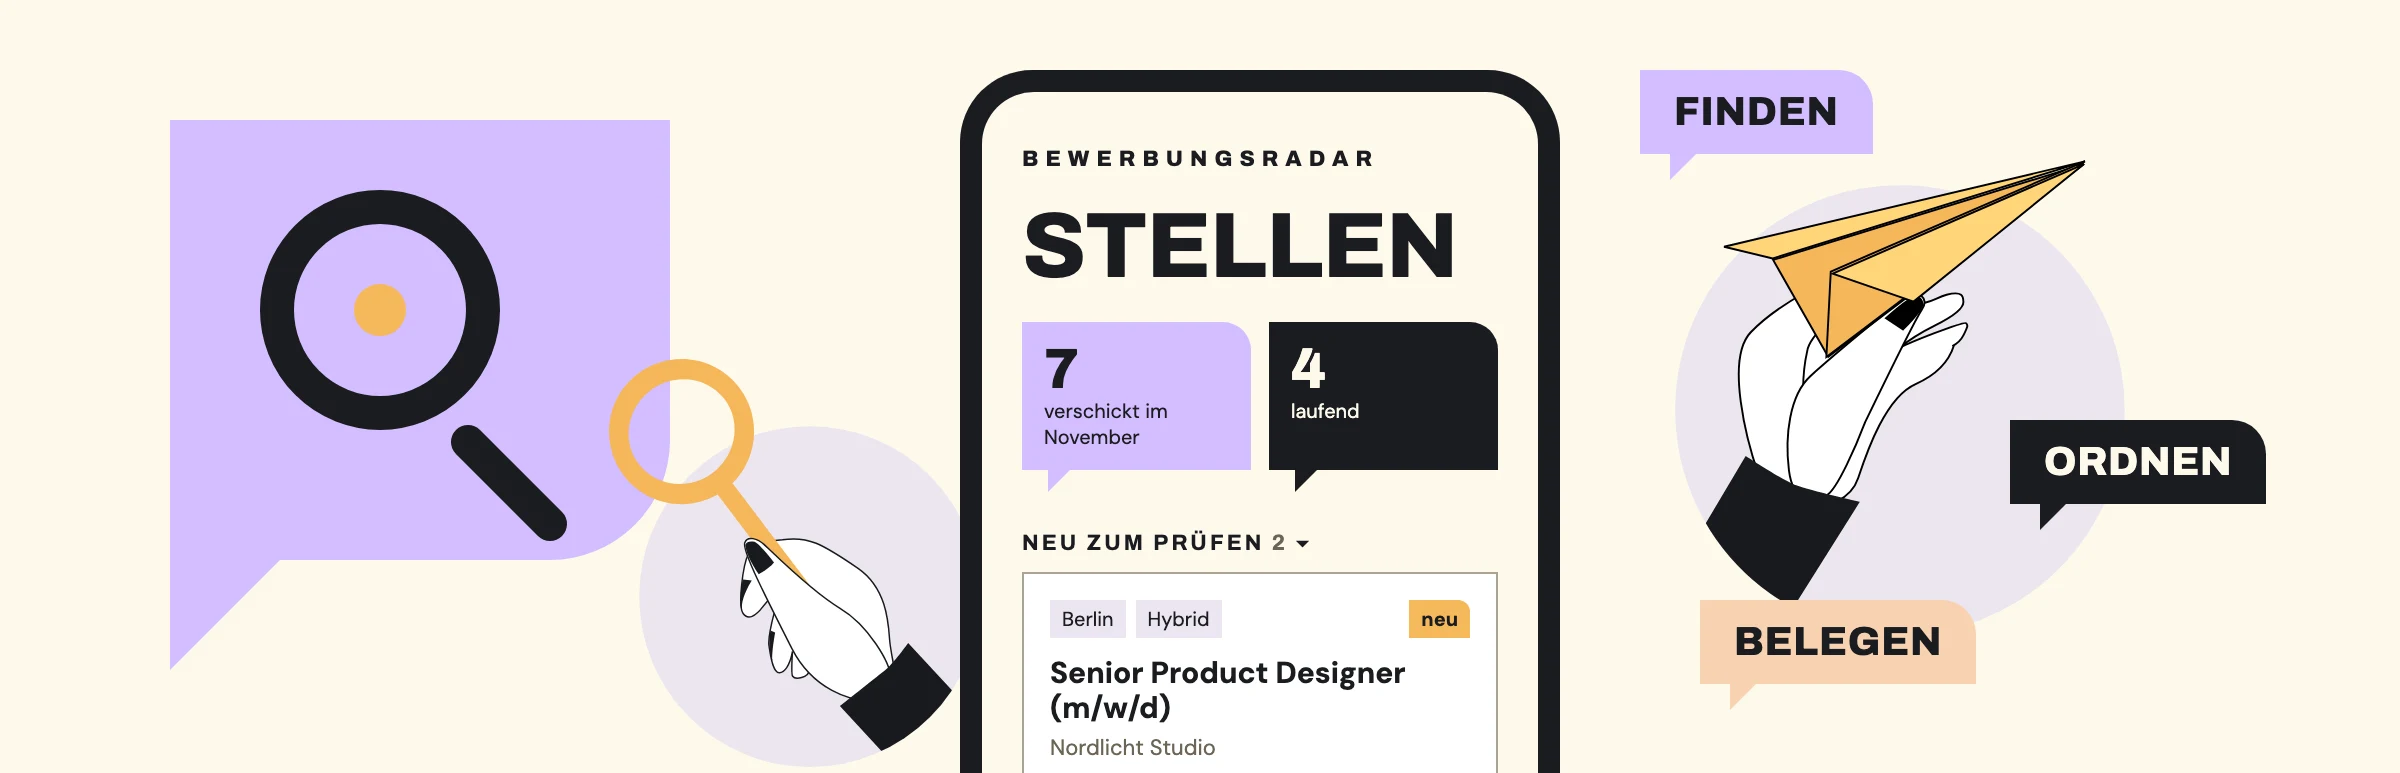
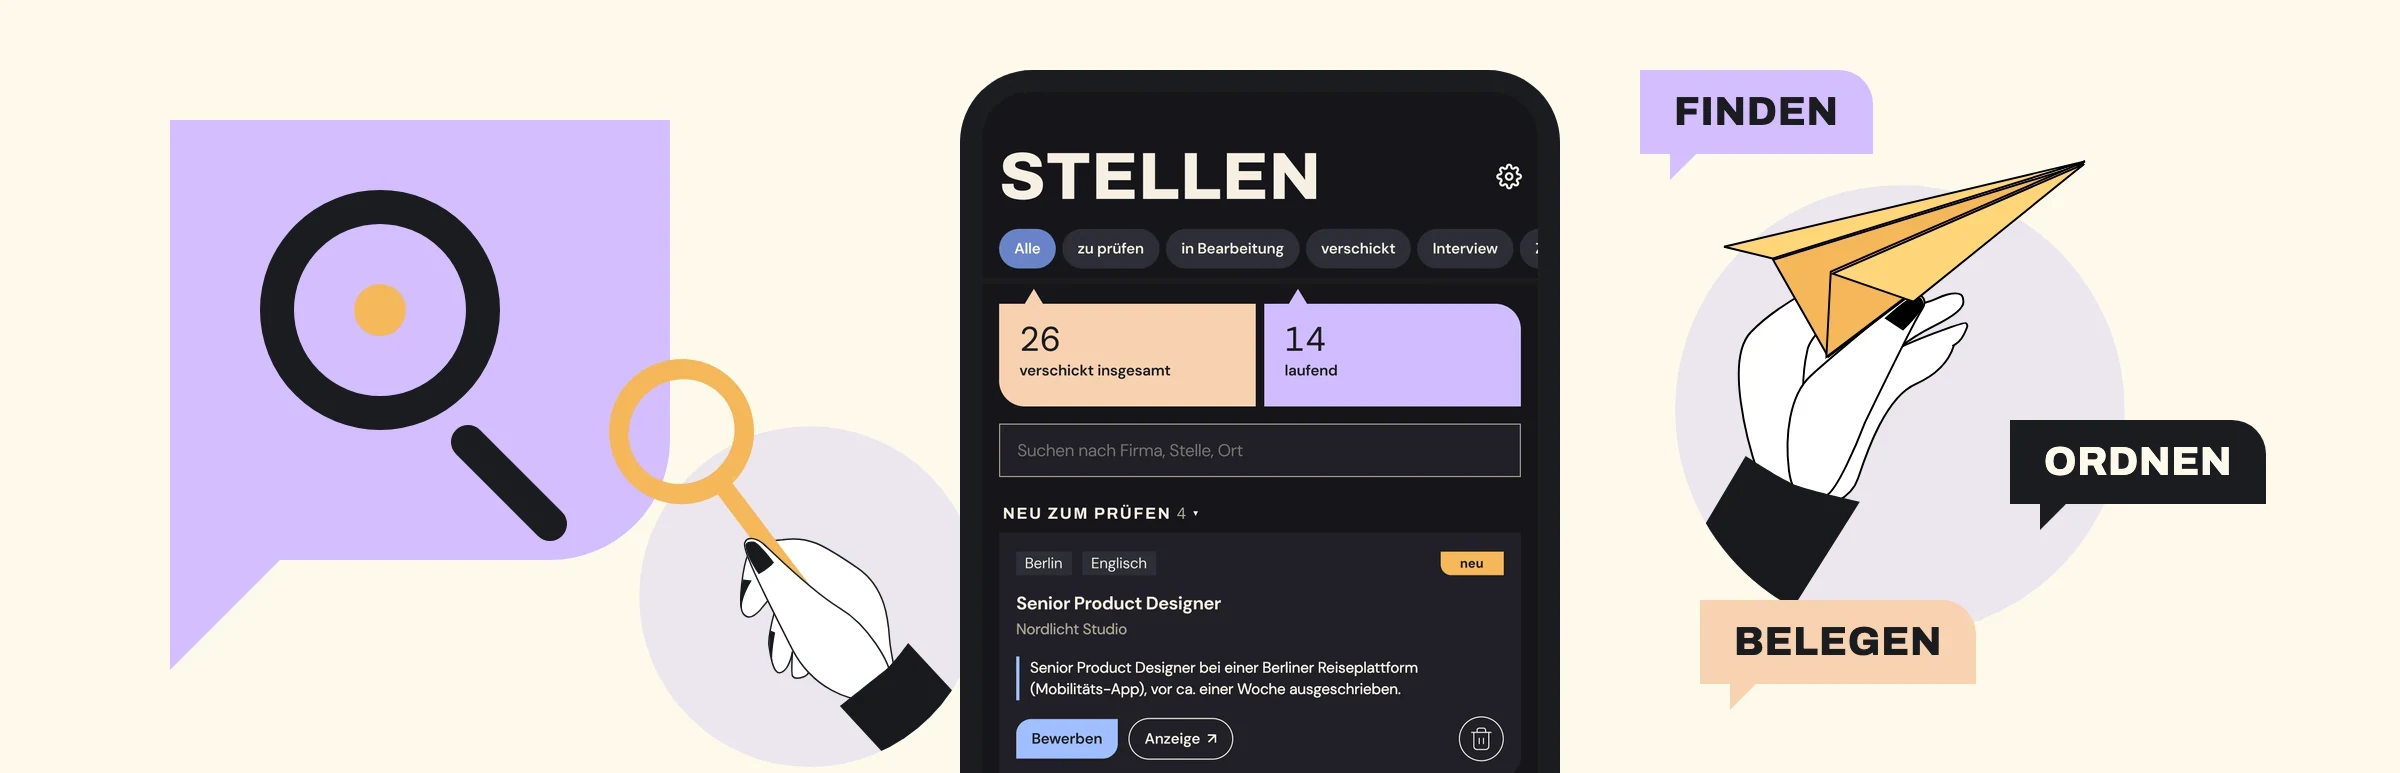
Bewerbungsradar: echter Stellen-Screen im Herobild, Kurzüberblick als Box darunter

Changed region(s): [[0.4062, 0.0931, 0.6562, 1.0]]

diff --git a/cs-bewerbungsradar.html b/cs-bewerbungsradar.html
@@ -27,7 +27,7 @@
 <link rel="icon" href="favicon.svg?v=2" type="image/svg+xml">
 <link rel="icon" href="favicon.ico?v=2" sizes="48x48">
 <link rel="apple-touch-icon" href="apple-touch-icon.png">
-<link rel="stylesheet" href="css/style.css?v=208">
+<link rel="stylesheet" href="css/style.css?v=209">
 <!-- Besucherstatistik: Umami (ohne Cookies), zählt nur auf susanngebert.com -->
 <script defer src="https://cloud.umami.is/script.js" data-website-id="f222214b-0634-4848-a78e-f9d0a3985930" data-domains="susanngebert.com"></script>
 </head>
@@ -72,7 +72,7 @@
   <!-- ================= 01 HERO ================= -->
   <section class="cs-hero">
     <div class="wrap">
-      <img class="cs-img cs-hero-img" src="images/radar-hero.webp?v=1" width="2400" height="773" alt="Bewerbungsradar: lila Sprechblase mit Lupe, Handy mit dem Reiter „Stellen“, gezeichnete Hände mit Lupe und Papierflieger, dazu die Sprechblasen Finden, Ordnen, Belegen" data-i18n-alt="rd.hero">
+      <img class="cs-img cs-hero-img" src="images/radar-hero.webp?v=2" width="2400" height="773" alt="Bewerbungsradar: lila Sprechblase mit Lupe, Handy mit dem Reiter „Stellen“, gezeichnete Hände mit Lupe und Papierflieger, dazu die Sprechblasen Finden, Ordnen, Belegen" data-i18n-alt="rd.hero">
     </div>
 
     <div class="cs-hero-head">
@@ -101,7 +101,6 @@
             <dd><span data-only="de">Live und täglich in meiner eigenen Jobsuche im Einsatz. Tests mit anderen Arbeitssuchenden stehen noch aus.</span><span data-only="en">Live and in daily use in my own job search. Tests with other job seekers are still to come.</span></dd>
           </div>
         </dl>
-        <img class="cs-img rd-shot" src="images/radar-screen-stellen.webp?v=3" width="985" height="1879" alt="Reiter „Stellen“ der App: Status-Filter, Kacheln für verschickt und laufend, Suchfeld und Karten mit neuen Stellen" data-i18n-alt="rd.heroScreen">
       </div>
 
       <dl class="cs-facts">
@@ -566,7 +565,7 @@
   </nav>
 </div>
 
-<script src="js/i18n.js?v=206"></script>
+<script src="js/i18n.js?v=207"></script>
 <script src="js/main.js?v=147"></script>
 <script src="js/case.js?v=140"></script>
 <script src="js/scribble.js?v=3"></script>

diff --git a/js/i18n.js b/js/i18n.js
@@ -109,7 +109,6 @@ const TEXT = {
     "rd.push":"Push-Mitteilung auf dem iPhone: Jobradar, 1 neue Stelle zum Prüfen, 06:53",
     "rd.v1":"Erste Version des Reiters „Stellen“ auf hellem Grund: vier farbige Kacheln mit Zahlen, Suchfeld, Filter-Chips und Karten mit neuen Stellen",
     "rd.stellen":"Reiter „Stellen“ nach dem Figma-Redesign auf dunklem Grund: große Überschrift, Status-Filter, zwei Kacheln für verschickt und laufend, Suchfeld, Karten mit neuen Stellen und eine Navigationsleiste mit fünf Reitern",
-    "rd.heroScreen":"Reiter „Stellen“ der App: Status-Filter, Kacheln für verschickt und laufend, Suchfeld und Karten mit neuen Stellen",
     "rd.analyse":"Reiter „Analyse“: Balkendiagramm verschickter Bewerbungen pro Monat, Verlauf vom Versand über Interview zur Zusage und Interview-Quote nach Ort",
     "rd.start":"Startscreen der App: Willkommen beim Bewerbungsradar, Feld für die E-Mail-Adresse und Button „Link schicken“","rd.code":"Screen „Post ist unterwegs“: Feld für den Code aus der E-Mail, Button „Anmelden“ und Countdown für einen neuen Code",
   },
@@ -220,7 +219,6 @@ const TEXT = {
     "rd.push":"Push notification on an iPhone: Job radar, 1 new job to review, 06:53",
     "rd.v1":"First version of the “Jobs” tab on a light background: four coloured number tiles, a search field, filter chips and cards with new listings",
     "rd.stellen":"The “Jobs” tab after the Figma redesign on a dark background: large heading, status filters, two tiles for sent and ongoing, a search field, cards with new listings and a navigation bar with five tabs",
-    "rd.heroScreen":"The app’s “Jobs” tab: status filters, tiles for sent and ongoing, search field and cards with new listings",
     "rd.analyse":"“Analytics” tab: bar chart of applications sent per month, the path from sending to interview to offer, and interview rate by location",
     "rd.start":"App start screen: Welcome to Bewerbungsradar, an email field and a “Send link” button","rd.code":"“Post is on its way” screen: field for the code from the email, a “Sign in” button and a countdown for a new code",
   }

diff --git a/css/style.css b/css/style.css
@@ -1087,9 +1087,9 @@ ol.cs-list li::marker{font-weight:700;color:var(--light-black)}
 .cs-themes.rd-review-3{grid-template-columns:repeat(3,minmax(0,1fr))}
 .rd-review .cs-theme{grid-template-columns:minmax(0,1fr)}
 .rd-phones,.rd-login{max-width:520px;margin-inline:auto}   /* Handy-Screens mittig */
-/* Kurzüberblick im Hero: Problem, Beitrag, Stand + echter Screen */
-.rd-glance{display:grid;grid-template-columns:minmax(0,1fr) clamp(170px,15vw,210px);gap:clamp(20px,3vw,48px);align-items:center;margin-top:clamp(24px,2.6vw,40px);padding:clamp(18px,2vw,32px);background:var(--rd-lilac);border-radius:0 calc(var(--radius) * 2.4) 0 0}
-.rd-glance-list{display:grid;gap:clamp(14px,1.4vw,22px)}
+/* Kurzüberblick im Hero: Problem, Beitrag, Stand */
+.rd-glance{margin-top:clamp(24px,2.6vw,40px);padding:clamp(18px,2vw,32px);background:var(--rd-lilac);border-radius:0 calc(var(--radius) * 2.4) 0 0}
+.rd-glance-list{display:grid;grid-template-columns:repeat(3,minmax(0,1fr));gap:clamp(16px,2vw,32px)}
 .rd-glance-list dt{font-weight:700;font-size:clamp(15px,1.2vw,18px);margin-bottom:4px}
 .rd-glance-list dd{font-size:clamp(15px,1.15vw,17px);line-height:1.5}
 /* Wer hat was gemacht */
@@ -1108,8 +1108,7 @@ ol.cs-list li::marker{font-weight:700;color:var(--light-black)}
   .rd-roles{grid-template-columns:minmax(0,1fr);gap:32px}
 }
 @media (max-width:700px){
-  .rd-glance{grid-template-columns:minmax(0,1fr)}
-  .rd-glance .rd-shot{width:min(220px,70%);margin-inline:auto}
+  .rd-glance-list{grid-template-columns:minmax(0,1fr)}
 }
 .rd-single{max-width:250px}
 @media (max-width:900px){

diff --git a/index.html b/index.html
@@ -27,7 +27,7 @@
 <link rel="icon" href="favicon.svg?v=2" type="image/svg+xml">
 <link rel="icon" href="favicon.ico?v=2" sizes="48x48">
 <link rel="apple-touch-icon" href="apple-touch-icon.png">
-<link rel="stylesheet" href="css/style.css?v=208">
+<link rel="stylesheet" href="css/style.css?v=209">
 <!-- Besucherstatistik: Umami (ohne Cookies), zählt nur auf susanngebert.com -->
 <script defer src="https://cloud.umami.is/script.js" data-website-id="f222214b-0634-4848-a78e-f9d0a3985930" data-domains="susanngebert.com"></script>
 </head>
@@ -355,7 +355,7 @@
   </nav>
 </div>
 
-<script src="js/i18n.js?v=206"></script>
+<script src="js/i18n.js?v=207"></script>
 <script src="js/main.js?v=151"></script>
 <script src="js/hero-heatmap.js?v=16"></script>
 <script src="js/scroll-intro.js?v=25"></script>

diff --git a/cs-dashboard.html b/cs-dashboard.html
@@ -27,7 +27,7 @@
 <link rel="icon" href="favicon.svg?v=2" type="image/svg+xml">
 <link rel="icon" href="favicon.ico?v=2" sizes="48x48">
 <link rel="apple-touch-icon" href="apple-touch-icon.png">
-<link rel="stylesheet" href="css/style.css?v=208">
+<link rel="stylesheet" href="css/style.css?v=209">
 <!-- Besucherstatistik: Umami (ohne Cookies), zählt nur auf susanngebert.com -->
 <script defer src="https://cloud.umami.is/script.js" data-website-id="f222214b-0634-4848-a78e-f9d0a3985930" data-domains="susanngebert.com"></script>
 </head>
@@ -456,7 +456,7 @@
   </nav>
 </div>
 
-<script src="js/i18n.js?v=206"></script>
+<script src="js/i18n.js?v=207"></script>
 <script src="js/main.js?v=147"></script>
 <script src="js/case.js?v=140"></script>
 <script src="js/scribble.js?v=3"></script>

diff --git a/cs-e-commerce.html b/cs-e-commerce.html
@@ -27,7 +27,7 @@
 <link rel="icon" href="favicon.svg?v=2" type="image/svg+xml">
 <link rel="icon" href="favicon.ico?v=2" sizes="48x48">
 <link rel="apple-touch-icon" href="apple-touch-icon.png">
-<link rel="stylesheet" href="css/style.css?v=208">
+<link rel="stylesheet" href="css/style.css?v=209">
 <!-- Besucherstatistik: Umami (ohne Cookies), zählt nur auf susanngebert.com -->
 <script defer src="https://cloud.umami.is/script.js" data-website-id="f222214b-0634-4848-a78e-f9d0a3985930" data-domains="susanngebert.com"></script>
 </head>
@@ -444,7 +444,7 @@
   </nav>
 </div>
 
-<script src="js/i18n.js?v=206"></script>
+<script src="js/i18n.js?v=207"></script>
 <script src="js/main.js?v=147"></script>
 <script src="js/case.js?v=140"></script>
 <script src="js/scribble.js?v=3"></script>

diff --git a/cs-mobile-app.html b/cs-mobile-app.html
@@ -27,7 +27,7 @@
 <link rel="icon" href="favicon.svg?v=2" type="image/svg+xml">
 <link rel="icon" href="favicon.ico?v=2" sizes="48x48">
 <link rel="apple-touch-icon" href="apple-touch-icon.png">
-<link rel="stylesheet" href="css/style.css?v=208">
+<link rel="stylesheet" href="css/style.css?v=209">
 <!-- Besucherstatistik: Umami (ohne Cookies), zählt nur auf susanngebert.com -->
 <script defer src="https://cloud.umami.is/script.js" data-website-id="f222214b-0634-4848-a78e-f9d0a3985930" data-domains="susanngebert.com"></script>
 </head>
@@ -559,7 +559,7 @@
   </nav>
 </div>
 
-<script src="js/i18n.js?v=206"></script>
+<script src="js/i18n.js?v=207"></script>
 <script src="js/main.js?v=147"></script>
 <script src="js/case.js?v=140"></script>
 <script src="js/scribble.js?v=3"></script>

diff --git a/cs-nexio.html b/cs-nexio.html
@@ -27,7 +27,7 @@
 <link rel="icon" href="favicon.svg?v=2" type="image/svg+xml">
 <link rel="icon" href="favicon.ico?v=2" sizes="48x48">
 <link rel="apple-touch-icon" href="apple-touch-icon.png">
-<link rel="stylesheet" href="css/style.css?v=208">
+<link rel="stylesheet" href="css/style.css?v=209">
 <!-- Besucherstatistik: Umami (ohne Cookies), zählt nur auf susanngebert.com -->
 <script defer src="https://cloud.umami.is/script.js" data-website-id="f222214b-0634-4848-a78e-f9d0a3985930" data-domains="susanngebert.com"></script>
 </head>
@@ -416,7 +416,7 @@
   </nav>
 </div>
 
-<script src="js/i18n.js?v=206"></script>
+<script src="js/i18n.js?v=207"></script>
 <script src="js/main.js?v=147"></script>
 <script src="js/case.js?v=140"></script>
 <script src="js/scribble.js?v=3"></script>

diff --git a/ecomex.html b/ecomex.html
@@ -27,7 +27,7 @@
 <link rel="icon" href="favicon.svg?v=2" type="image/svg+xml">
 <link rel="icon" href="favicon.ico?v=2" sizes="48x48">
 <link rel="apple-touch-icon" href="apple-touch-icon.png">
-<link rel="stylesheet" href="css/style.css?v=208">
+<link rel="stylesheet" href="css/style.css?v=209">
 <!-- Besucherstatistik: Umami (ohne Cookies), zählt nur auf susanngebert.com -->
 <script defer src="https://cloud.umami.is/script.js" data-website-id="f222214b-0634-4848-a78e-f9d0a3985930" data-domains="susanngebert.com"></script>
 </head>
@@ -343,7 +343,7 @@
   </nav>
 </div>
 
-<script src="js/i18n.js?v=206"></script>
+<script src="js/i18n.js?v=207"></script>
 <script src="js/main.js?v=147"></script>
 <script src="js/case.js?v=140"></script>
 <script src="js/scribble.js?v=3"></script>

diff --git a/contact.html b/contact.html
@@ -27,7 +27,7 @@
 <link rel="icon" href="favicon.svg?v=2" type="image/svg+xml">
 <link rel="icon" href="favicon.ico?v=2" sizes="48x48">
 <link rel="apple-touch-icon" href="apple-touch-icon.png">
-<link rel="stylesheet" href="css/style.css?v=208">
+<link rel="stylesheet" href="css/style.css?v=209">
 <!-- Besucherstatistik: Umami (ohne Cookies), zählt nur auf susanngebert.com -->
 <script defer src="https://cloud.umami.is/script.js" data-website-id="f222214b-0634-4848-a78e-f9d0a3985930" data-domains="susanngebert.com"></script>
 </head>
@@ -189,7 +189,7 @@
   </nav>
 </div>
 
-<script src="js/i18n.js?v=206"></script>
+<script src="js/i18n.js?v=207"></script>
 <script src="js/main.js?v=147"></script>
 <script src="js/contact.js?v=139"></script>
 </body>

diff --git a/404.html b/404.html
@@ -8,7 +8,7 @@
 <link rel="icon" href="/favicon.svg?v=2" type="image/svg+xml">
 <link rel="icon" href="/favicon.ico?v=2" sizes="48x48">
 <link rel="apple-touch-icon" href="/apple-touch-icon.png">
-<link rel="stylesheet" href="/css/style.css?v=208">
+<link rel="stylesheet" href="/css/style.css?v=209">
 <!-- Besucherstatistik: Umami (ohne Cookies), zählt nur auf susanngebert.com -->
 <script defer src="https://cloud.umami.is/script.js" data-website-id="f222214b-0634-4848-a78e-f9d0a3985930" data-domains="susanngebert.com"></script>
 </head>
@@ -126,7 +126,7 @@
   </nav>
 </div>
 
-<script src="/js/i18n.js?v=206"></script>
+<script src="/js/i18n.js?v=207"></script>
 <script src="/js/main.js?v=147"></script>
 </body>
 </html>

diff --git a/about.html b/about.html
@@ -27,7 +27,7 @@
 <link rel="icon" href="favicon.svg?v=2" type="image/svg+xml">
 <link rel="icon" href="favicon.ico?v=2" sizes="48x48">
 <link rel="apple-touch-icon" href="apple-touch-icon.png">
-<link rel="stylesheet" href="css/style.css?v=208">
+<link rel="stylesheet" href="css/style.css?v=209">
 <!-- Besucherstatistik: Umami (ohne Cookies), zählt nur auf susanngebert.com -->
 <script defer src="https://cloud.umami.is/script.js" data-website-id="f222214b-0634-4848-a78e-f9d0a3985930" data-domains="susanngebert.com"></script>
 </head>
@@ -173,7 +173,7 @@
   </nav>
 </div>
 
-<script src="js/i18n.js?v=206"></script>
+<script src="js/i18n.js?v=207"></script>
 <script src="js/main.js?v=147"></script>
 </body>
 </html>
